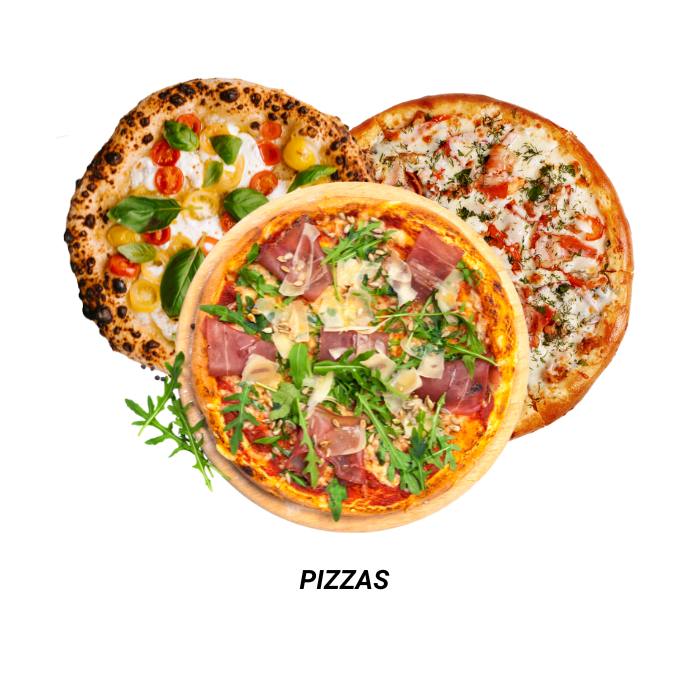
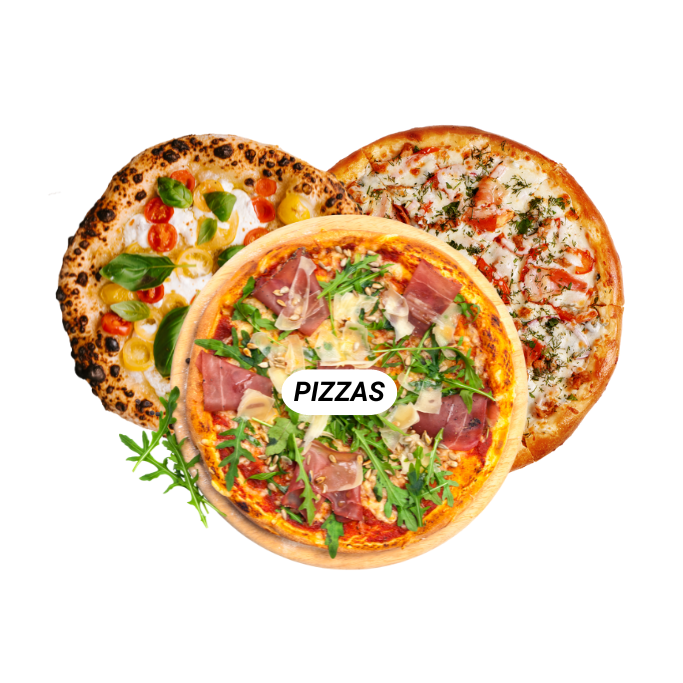
adding new img to menucard

diff --git a/src/pages/menu/Menu.jsx b/src/pages/menu/Menu.jsx
@@ -21,6 +21,11 @@ export const Menu = () => {
           className="d-flex flex-column align-items-center justify-content-center"
         >
           <Image
+            fluid
+            style={{
+              width: "400px",
+              height: "400px",
+            }}
             src="https://res.cloudinary.com/dxctvkec9/image/upload/v1692889790/pizzaslide_lowaps.png"
             alt="Menu Pizzas"
           />

diff --git a/src/components/NavBar.jsx b/src/components/NavBar.jsx
@@ -34,7 +34,7 @@ export const NavBar = () => {
 
   return (
     <>
-      {["md"].map((expand) => (
+      {["lg"].map((expand) => (
         <Navbar
           key={expand}
           expand={expand}
